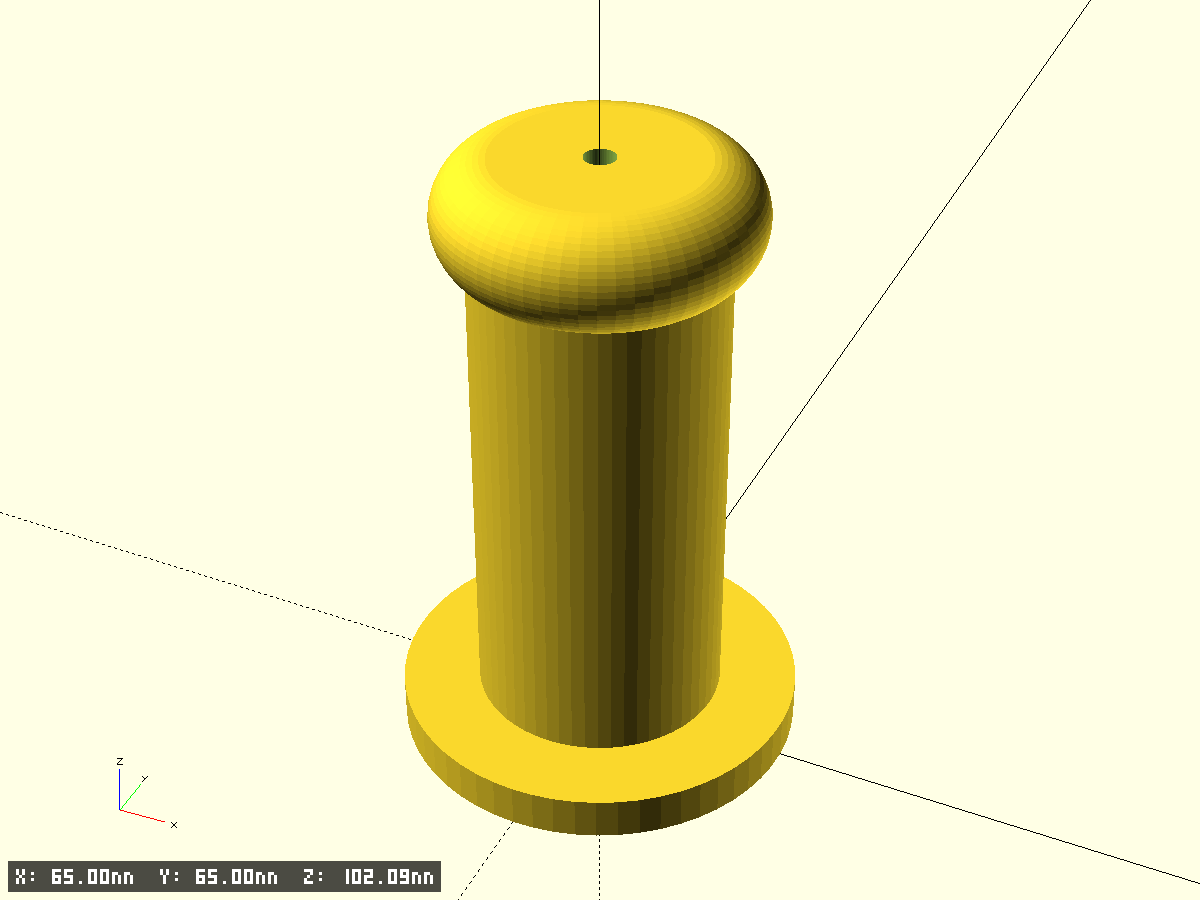
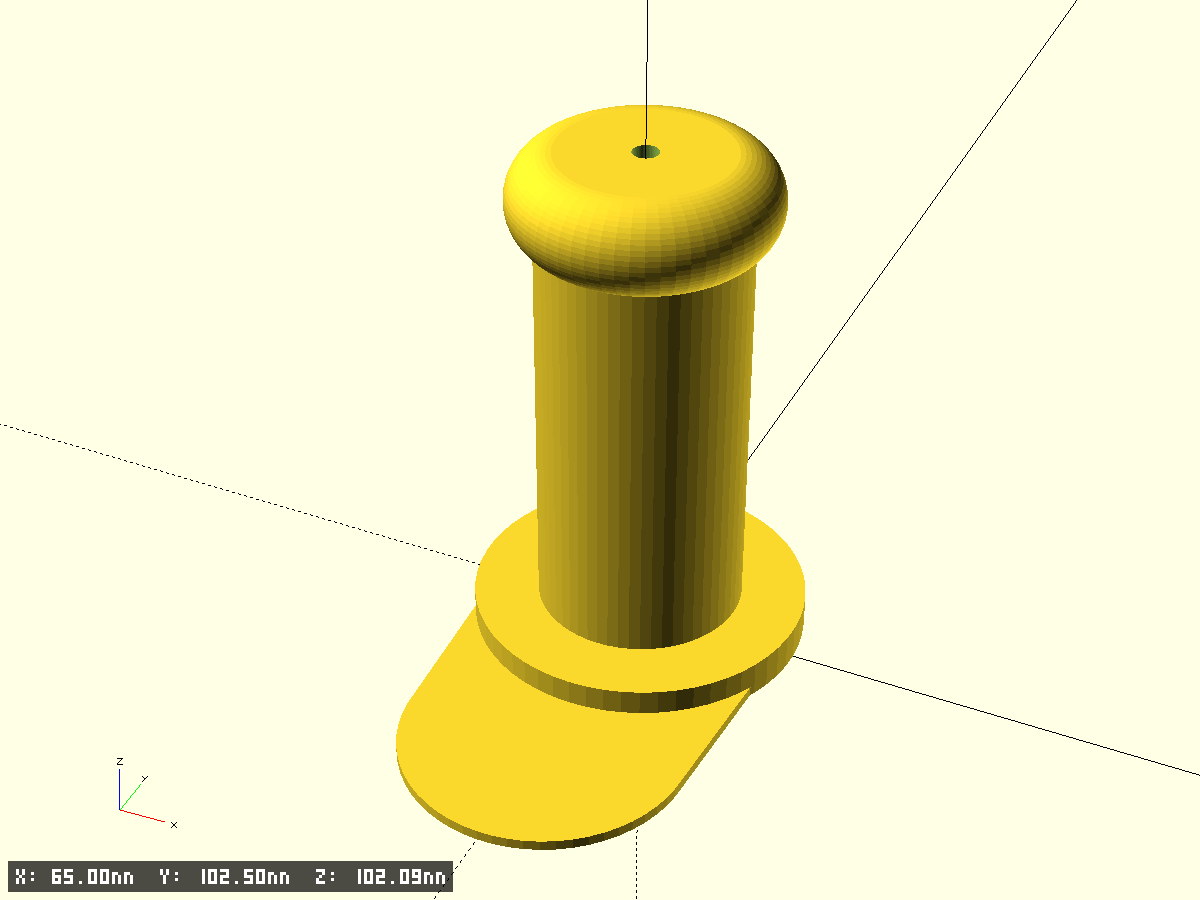
add funnel, fix cap

Changed region(s): [[0.3083, 0.0933, 0.6783, 0.9644], [0.1542, 0.9644, 0.4008, 0.9956], [0.4933, 0.1556, 0.555, 0.1867]]

diff --git a/models/README.md b/models/README.md
@@ -15,5 +15,6 @@
 | Mic Transceiver Box — inner 100x35x17, base + cap<br>2025-08-26<br>[2025-08-26-mic-transiever-box](2025-08-26-mic-transiever-box/)<br>[mic-box.scad](2025-08-26-mic-transiever-box/mic-box.scad) | Mic Transceiver Box — inner 100x35x17, base + cap | ![iso](2025-08-26-mic-transiever-box/preview.iso.png) ![xy](2025-08-26-mic-transiever-box/preview.xy.png) | ![xz](2025-08-26-mic-transiever-box/preview.xz.png) ![yz](2025-08-26-mic-transiever-box/preview.yz.png) |
 | phone iphone14 mini table holder — base<br>2025-08-26<br>[2025-08-26-phone-iphone14-mini-table-holder](2025-08-26-phone-iphone14-mini-table-holder/)<br>[phone-holder.scad](2025-08-26-phone-iphone14-mini-table-holder/phone-holder.scad) | phone iphone14 mini table holder — base | ![iso](2025-08-26-phone-iphone14-mini-table-holder/preview.iso.png) ![xy](2025-08-26-phone-iphone14-mini-table-holder/preview.xy.png) | ![xz](2025-08-26-phone-iphone14-mini-table-holder/preview.xz.png) ![yz](2025-08-26-phone-iphone14-mini-table-holder/preview.yz.png) |
 | filament holder<br>2025-08-29<br>[2025-08-29-printer-filement-holder](2025-08-29-printer-filement-holder/)<br>[filement-holder.scad](2025-08-29-printer-filement-holder/filement-holder.scad) | Держатель катушки, крепится сбоку на принтер, на magsafe магнит | ![iso](2025-08-29-printer-filement-holder/preview.iso.png) ![xy](2025-08-29-printer-filement-holder/preview.xy.png) | ![xz](2025-08-29-printer-filement-holder/preview.xz.png) ![yz](2025-08-29-printer-filement-holder/preview.yz.png) |
+| funnel — воронка из 3 модулей<br>2025-09-04<br>[2025-09-04-funnel](2025-09-04-funnel/)<br>[funnel.scad](2025-09-04-funnel/funnel.scad) | — | ![iso](2025-09-04-funnel/preview.iso.png) ![xy](2025-09-04-funnel/preview.xy.png) | ![xz](2025-09-04-funnel/preview.xz.png) ![yz](2025-09-04-funnel/preview.yz.png) |
 | Rect shells, trays, rings and chamfers<br><br>[modules.scad](modules.scad/)<br> | Reusable base functions and modules for OpenSCAD models | — — | — — |
 | ${longName}<br><br>[template-default](template-default/)<br>[default.scad](template-default/default.scad) | ${shortDescription} | ![iso](template-default/preview.iso.png) ![xy](template-default/preview.xy.png) | ![xz](template-default/preview.xz.png) ![yz](template-default/preview.yz.png) |

diff --git a/models/2025-09-04-funnel/README.md b/models/2025-09-04-funnel/README.md
@@ -1,0 +1,35 @@
+# funnel
+
+- Файл модели: `funnel.scad`
+- Версия: 1.0
+
+## Фрагменты модели
+- `p1_base` — нижнее основание (кольцо), параметры: `P1_D`, `P1_H`
+- `p2_frustum` — конический участок, параметр: `P2_H` (диаметры берутся из `P1_D` и `P3_D`)
+- `p3_neck` — горлышко (трубка), параметры: `P3_D`, `P3_H`
+- Главная деталь: `base` = `p1_base + p2_frustum + p3_neck`
+
+## Параметры (указать размеры)
+Отметьте фактические значения по фото:
+- `P1_D` — нижний внешний диаметр основания (мм)
+- `P1_H` — высота основания (мм)
+- `P2_H` — высота усечённого конуса (мм)
+- `P3_D` — внешний диаметр горлышка (мм)
+- `P3_H` — высота горлышка (мм)
+- `wall_th` — толщина стенок (мм), по умолчанию 2.0
+- `edge_ch_base`, `edge_ch_neck` — фаски по краям (мм), опционально
+- `mink_r` — глобальное скругление мидов (мм), опционально
+
+## Технические настройки
+- `$fn=0`, `$fa=6`, `$fs=0.35`, `pin_fs=0.25`
+- `test_fragment`, `frag_*` — поддержка тест‑фрагментов из `models/modules.scad`
+
+## Превью
+
+![funnel iso](preview.iso.png)
+
+![funnel xy](preview.xy.png)
+
+![funnel xz](preview.xz.png)
+
+![funnel yz](preview.yz.png)
